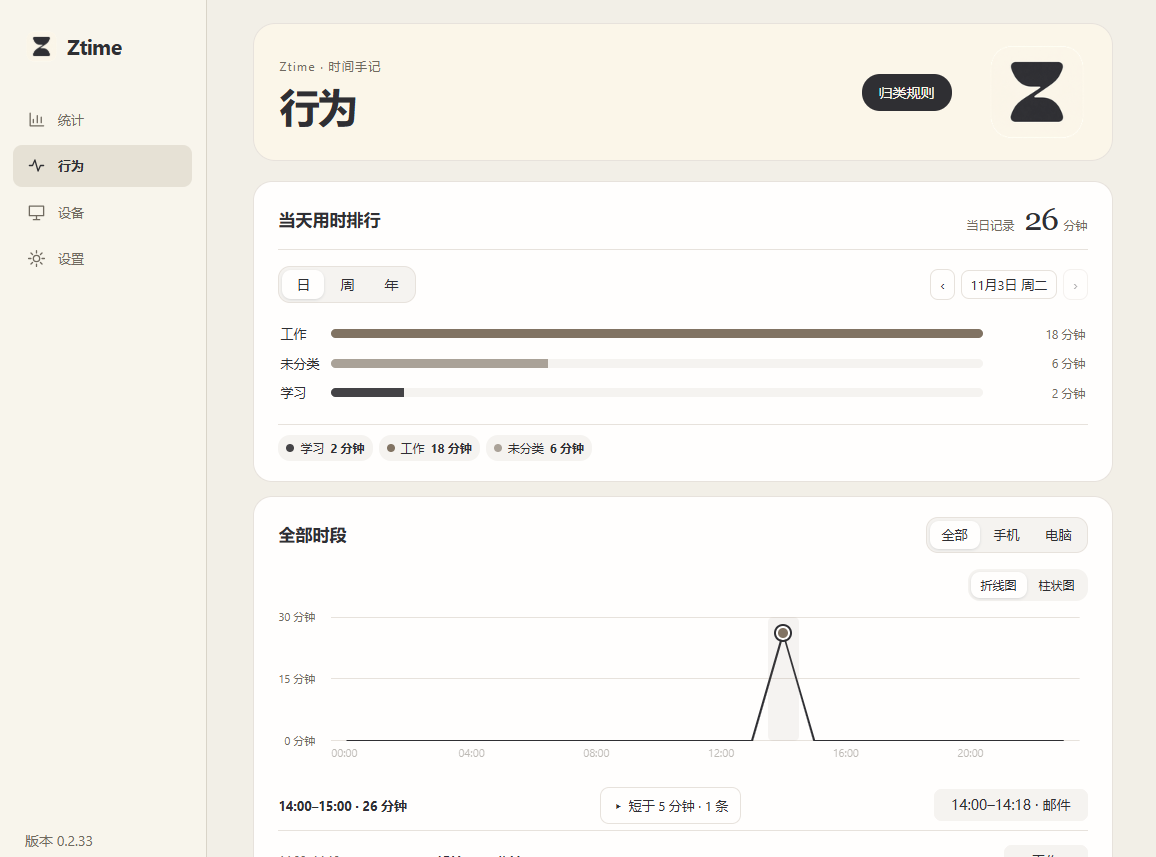
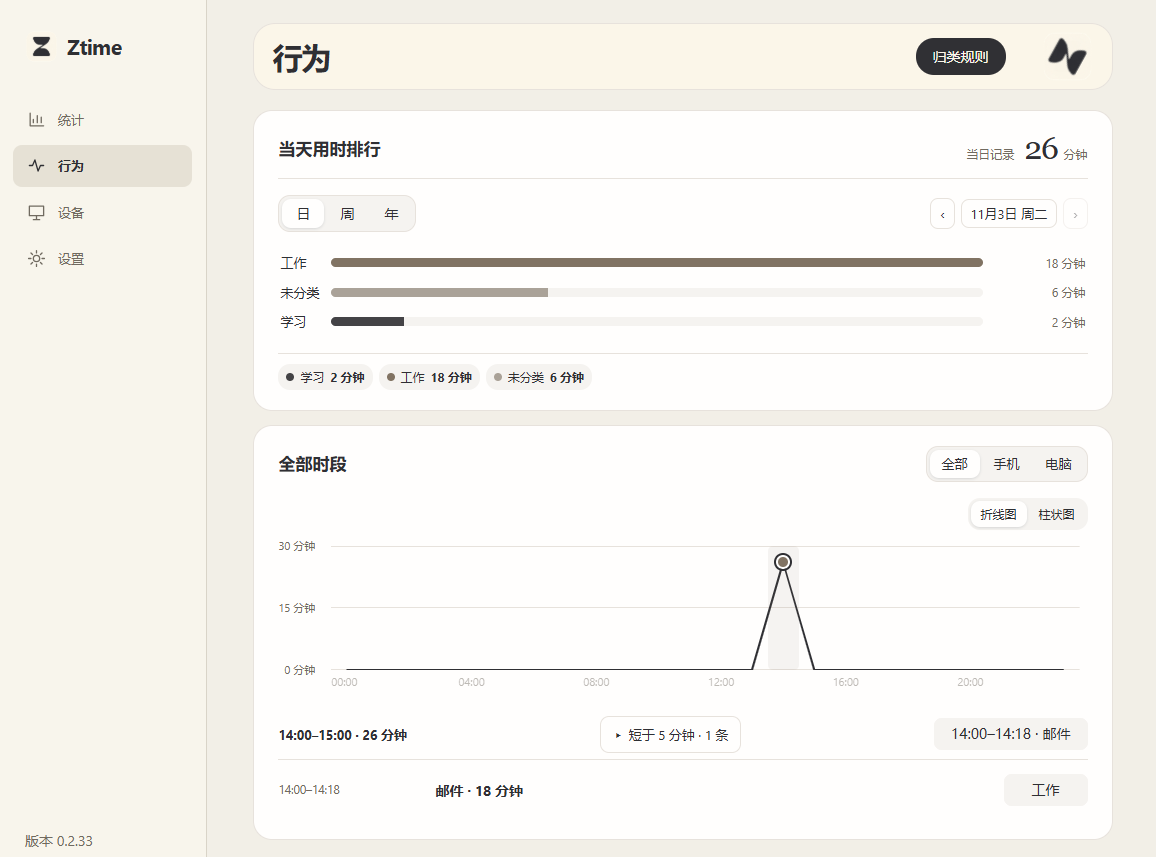
Animate the original Ztime hourglass and compact the behavior header

diff --git a/design/review/review.js b/design/review/review.js
@@ -622,11 +622,27 @@ function applySecondDesktopDraft(d,pageId){
   if(pageId==='behavior' && proposal==='hourglass'){
     d.body.classList.add('hourglass-study');
     const header=d.querySelector('.behavior > header');
-    header.querySelector('h1').insertAdjacentHTML('beforebegin','<small class="sand-signature">Ztime · 时间手记</small>');
     header.insertAdjacentHTML('beforeend','<div class="sand-seal"><img src="brand-icon.png" alt="Ztime 沙漏"></div>');
     const heading=d.querySelector('.behavior-summary .behavior-head');
     heading.insertAdjacentHTML('beforeend','<div class="sand-total"><small id="sand-period"></small><b id="sand-minutes"></b><span>分钟</span></div>');
     d.querySelector('[data-mode=day]').click();
+  }
+  if(proposal==='hourglass'){
+    const logo=d.querySelector('.sand-seal img') || [...d.querySelectorAll('.pd-brand img,.sidebar .brand img')].find(img=>img.offsetWidth);
+    if(logo){
+      const mark=logo.parentElement;
+      if(!mark.classList.contains('sand-seal')){
+        const frame=d.createElement('span');
+        frame.className='sand-icon';
+        logo.before(frame);frame.append(logo);
+      }
+      const frame=logo.parentElement;
+      frame.classList.add('sand-motion');
+      const visible=new IntersectionObserver(([entry])=>frame.classList.toggle('sand-paused',!entry.isIntersecting || d.hidden));
+      visible.observe(frame);
+      d.addEventListener('visibilitychange',()=>frame.classList.toggle('sand-paused',d.hidden || frame.getBoundingClientRect().bottom<=0));
+      d.defaultView.addEventListener('pagehide',()=>visible.disconnect(),{once:true});
+    }
   }
   if(pageId==='behavior' && ['motion','hourglass'].includes(proposal)){
     d.body.classList.add('behavior-motion');
@@ -881,6 +897,7 @@ function comparisonNote(note){
 function targetFor(note) {
   if(secondDraftNote(note)!==currentDraft())return null;
   try {
+    if(note.board==='desktop-behavior' && note.id===170)return doc().querySelector('.behavior > header h1');
     if(note.board==='desktop-devices' && note.id===148)return doc().querySelector('.paired-status');
     if(note.board==='desktop-settings' && note.id===149)return doc().querySelector('.preview-rules h2');
     if(note.board==='desktop-settings' && note.id===151)return doc().querySelector('#idle-schedule');

diff --git a/design/review/boards/behavior.css b/design/review/boards/behavior.css
@@ -68,11 +68,10 @@ body.desktop-v2.hourglass-study:not(.dark) {
 }
 .hourglass-study:not(.dark) .sidebar {background:#f8f5ec;border-color:var(--line)}
 .hourglass-study:not(.dark) .sidebar .nav button.active {color:var(--ink);background:#e6e1d5}
-.hourglass-study .behavior > header {position:relative;isolation:isolate;display:grid;grid-template-columns:1fr auto;min-height:128px;padding:20px 25px;box-sizing:border-box;overflow:hidden;border:1px solid var(--line);border-radius:22px;background:var(--sand,var(--surface))}
-.hourglass-study .sand-signature {font-size:12px;color:var(--muted);letter-spacing:.1em}
-.hourglass-study .behavior h1 {font-size:40px;line-height:1.2;letter-spacing:-.04em;margin:6px 0 0}
+.hourglass-study .behavior > header {position:relative;isolation:isolate;display:grid;grid-template-columns:1fr auto;min-height:67px;padding:7px 18px;box-sizing:border-box;overflow:hidden;border:1px solid var(--line);border-radius:22px;background:var(--sand,var(--surface))}
+.hourglass-study .behavior h1 {font-size:30px;line-height:1.2;letter-spacing:-.04em;margin:0}
 .hourglass-study .sand-seal {grid-area:1/2;align-self:center;justify-self:end;margin-right:2px}
-.hourglass-study .sand-seal img {display:block;width:96px;height:96px}
+.hourglass-study .sand-seal img {display:block;width:49px;height:49px}
 .hourglass-study #rules-open {grid-area:1/1;justify-self:end;margin-right:25px}
 .hourglass-study .behavior > header > div:first-child {grid-area:1/1;justify-self:start}
 .hourglass-study:not(.dark) :is(#rules-open,#purpose-form button) {border:0;border-radius:18px;background:#2f2f33;color:#fbf6e9;padding:8px 17px}

diff --git a/design/review/boards/style.css b/design/review/boards/style.css
@@ -691,3 +691,26 @@ body:has(#style-lab) #app {display:none}
 #style-lab button:active {transform:translateY(1px)}
 .study-ui output {min-height:17px;line-height:17px;color:var(--accent-ui);font-size:12px}
 @media(max-width:700px){.study-cards{grid-template-columns:1fr}.study-cover svg{height:115px}.study-edition{display:none}}
+
+/* Keep the cream tile still. The moving disc samples the same original icon. */
+.sand-motion {position:relative;display:inline-grid;place-items:center;isolation:isolate;line-height:0}
+.sand-icon {width:31px;height:31px;flex:none}
+.sand-motion img {display:block}
+.sand-motion::before {
+  content:"";position:absolute;inset:0;pointer-events:none;background:url("brand-icon.png") center/100% 100% no-repeat;
+  clip-path:circle(46%);animation:sand-turn 640ms cubic-bezier(.22,.72,.22,1) both;
+}
+.sand-seal.sand-motion::after {
+  content:"";position:absolute;pointer-events:none;width:2px;height:2px;border-radius:50%;left:calc(50% - 1px);top:52%;
+  background:#fbf6e9;opacity:0;animation:sand-drop 4400ms linear 750ms infinite;
+}
+@keyframes sand-turn {from{transform:rotate(-180deg)}to{transform:rotate(0)}}
+@keyframes sand-drop {
+  0%,6%,29%,38%,60%,100% {opacity:0}
+  0%,6%,38% {transform:translateY(0)}
+  10%,42% {opacity:.95}
+  25%,55% {opacity:.7}
+  29%,60%,100% {transform:translateY(9px)}
+}
+.sand-motion.sand-paused::after {animation-play-state:paused}
+@media(prefers-reduced-motion:reduce){.sand-motion::before,.sand-motion::after{animation:none;opacity:0}}
